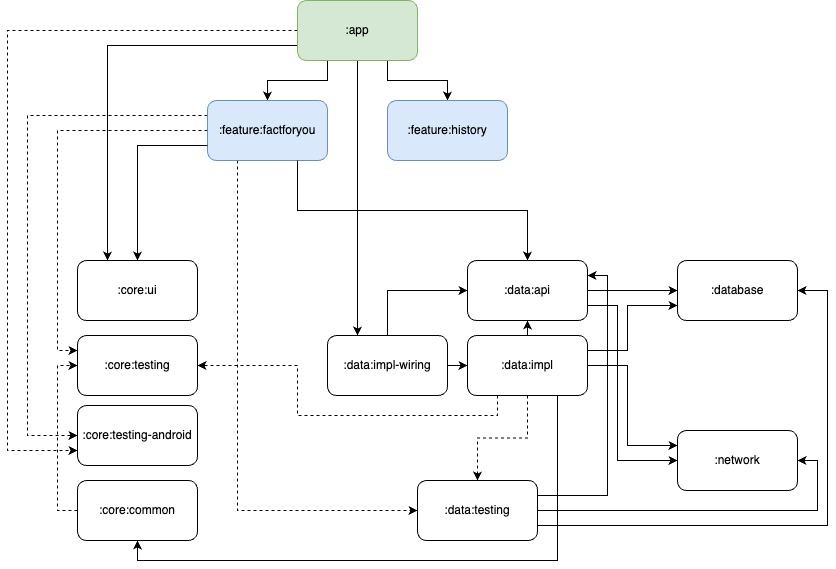
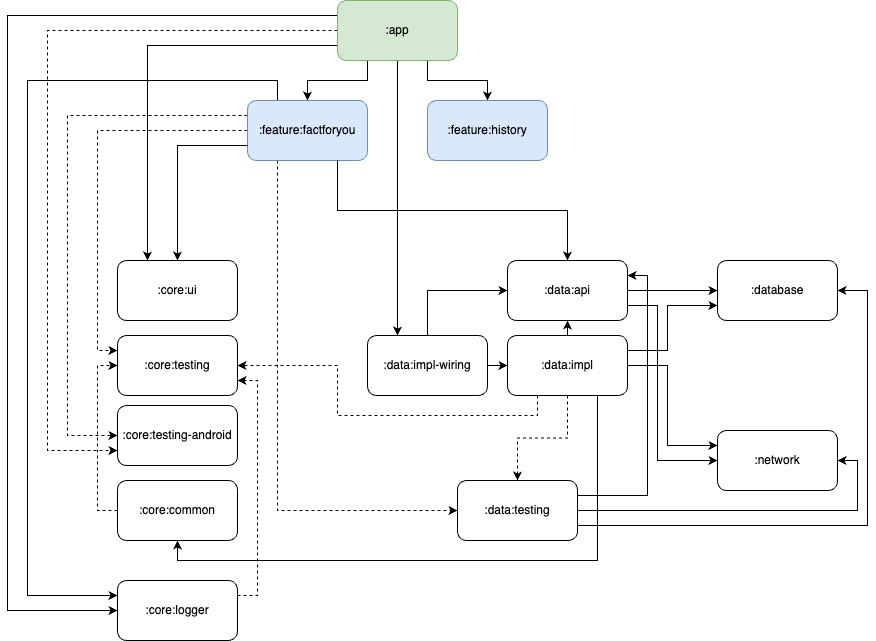
Update docs due to new :core:logger module and revise some details on domain module statement

diff --git a/docs/modularization_details.md b/docs/modularization_details.md
@@ -58,6 +58,10 @@
 
 - Common libraries & utils used as a common dependency for instrumentation testing.
 
+### :core:logger
+
+- Contains an API for multi-purposes logging (Debugging needs, Error Tracking, Event Tracking)
+
 ## Technical Decision on Modularization Strategy
 
 ### What is the main idea of this app modularization? Why do you make this kind of structure?
@@ -89,7 +93,7 @@ one big module, the `:data` module, with the mentioned 3 sub-modules.
 In the future if I happen to add another business domain on our app, I can separate it into new big
 module, with each will also implement the 3 sub-modules.
 
-### Why there is no domain layer codes here?
+### Why there is no separate domain modules here?
 
 Domain layer usually contains of domain models and use case classes. In my opinion, use case classes
 can be introduced when we have complex business logic that can be reused in multiple places.
@@ -98,6 +102,16 @@ As this app is only contains simple business logic, I directly use the Repositor
 ViewModels, with the constraint of always using domain models when communicating between
 ViewModels & Repository.
 
-Sometimes, use case class usage can be introduced as a rules, so whether it contains complex or
-simple business logic, we can force our team to always use them on communication between
-ViewModels & Repository. But for this project, I chose not.
+If we want to create separate domain modules, we can just move the domain models and also the
+repository interface to the new domain modules, and then let the `:feature` modules and `:data`
+module depend on the newly created domain module.
+
+Further more, we can separate it in the same manner as the `:data` module, which is splitting into :
+
+1. `:domain:api`, which will contains all domain models, use case class interfaces, and repository
+   interfaces.
+2. `:domain:impl`, which will contains all implementation details in the domain layer, such as use
+   case class implementation, non public models, etc. The repository implementations will keep
+   staying in the `:data` modules.
+3. `:domain:impl-wiring`, contains of DI modules to provide pairings between Use Case interfaces &
+   its implementations.
